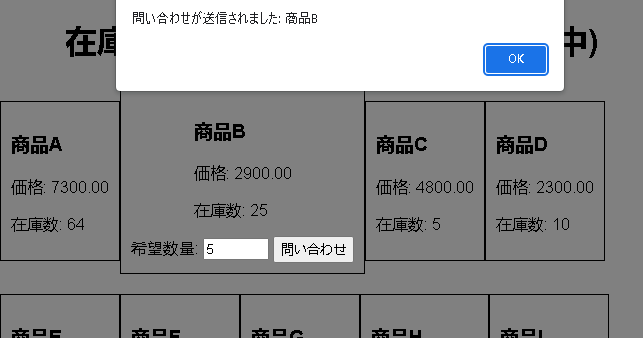
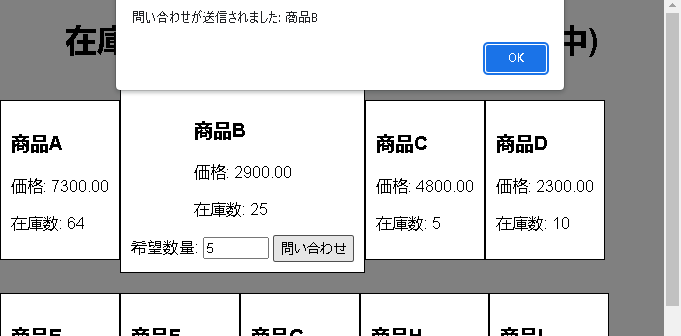
modified background color

diff --git a/index.html b/index.html
@@ -8,14 +8,14 @@
 
     <style>
         body {
-    font-family: Arial, sans-serif;
-    background-color: gray;
-    display: flex;
-    flex-direction: column;
-    align-items: center;
-    justify-content: flex-start;
-    height: 100vh;
-    margin: 0;
+            font-family: Arial, sans-serif;
+            background-color: gray;
+            display: flex;
+            flex-direction: column;
+            align-items: center;
+            justify-content: flex-start;
+            height: 100vh;
+            margin: 0;
         }
 
         #login {
@@ -32,6 +32,7 @@
         }
 
         .product {
+            background-color: white;
             display: flex;
             flex-direction: column;
             align-items: center;
